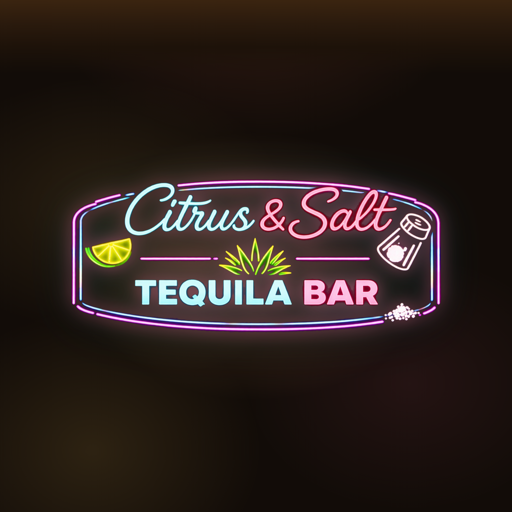
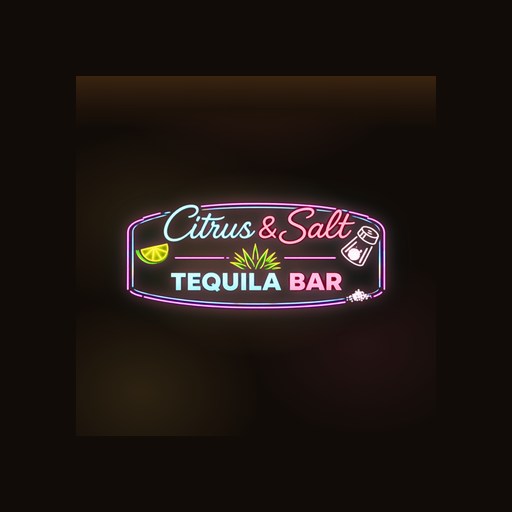
SEO + structural cleanup from Opus audit
- maskable-512.png regenerated with #120C08 safe-zone padding
  (was byte-identical to icon-512.png — would clip on Android)
- index.html: Twitter cards (summary_large_image) + hasMap + logo
  added to BarOrPub JSON-LD
- faq/index.html: Twitter cards added
- 404.html: canonical fixed (was /404 which doesn't 200) + Twitter
  cards added

diff --git a/404.html b/404.html
@@ -11,7 +11,7 @@
 <meta name="robots" content="noindex, follow" />
 <meta name="referrer" content="strict-origin-when-cross-origin" />
 
-<link rel="canonical" href="https://citrusandsaltbryan.com/404" />
+<link rel="canonical" href="https://citrusandsaltbryan.com/" />
 
 <meta property="og:type" content="website" />
 <meta property="og:title" content="Page not found · Citrus &amp; Salt" />
@@ -20,6 +20,10 @@
 <meta property="og:image" content="https://citrusandsaltbryan.com/og-image.jpg" />
 <meta property="og:locale" content="en_US" />
 <meta property="og:site_name" content="Citrus &amp; Salt" />
+<meta name="twitter:card" content="summary_large_image" />
+<meta name="twitter:title" content="Page not found · Citrus &amp; Salt" />
+<meta name="twitter:description" content="The page you&rsquo;re looking for has moved or doesn&rsquo;t exist." />
+<meta name="twitter:image" content="https://citrusandsaltbryan.com/og-image.jpg" />
 
 <link rel="icon" type="image/png" sizes="32x32" href="/favicon-32.png" />
 <link rel="icon" type="image/png" sizes="16x16" href="/favicon-16.png" />

diff --git a/index.html b/index.html
@@ -31,6 +31,10 @@
 <meta property="og:image" content="https://citrusandsaltbryan.com/og-image.jpg">
 <meta property="og:locale" content="en_US">
 <meta property="og:site_name" content="Citrus &amp; Salt">
+<meta name="twitter:card" content="summary_large_image">
+<meta name="twitter:title" content="Citrus &amp; Salt: Tequila &amp; Mezcal Bar in Downtown Bryan, TX">
+<meta name="twitter:description" content="BCS's only all-agave cocktail bar. 100+ tequilas and mezcals at 121 N Main St, Historic Downtown Bryan.">
+<meta name="twitter:image" content="https://citrusandsaltbryan.com/og-image.jpg">
 
 <script type="application/ld+json">
 {
@@ -69,7 +73,9 @@
       "areaServed": [
         {"@type": "City", "name": "Bryan"},
         {"@type": "City", "name": "College Station"}
-      ]
+      ],
+      "hasMap": "https://www.google.com/maps/search/?api=1&query=Citrus+%26+Salt+121+N+Main+St+Bryan+TX+77803",
+      "logo": "https://citrusandsaltbryan.com/logo-neon.png"
     },
     {
       "@type": "Person",

diff --git a/faq/index.html b/faq/index.html
@@ -30,6 +30,10 @@
 <meta property="og:image" content="https://citrusandsaltbryan.com/og-image.jpg">
 <meta property="og:locale" content="en_US">
 <meta property="og:site_name" content="Citrus &amp; Salt">
+<meta name="twitter:card" content="summary_large_image">
+<meta name="twitter:title" content="News &amp; FAQ | Citrus &amp; Salt">
+<meta name="twitter:description" content="Downtown Bryan news, events, and common questions about Citrus and Salt.">
+<meta name="twitter:image" content="https://citrusandsaltbryan.com/og-image.jpg">
 
 <script type="application/ld+json">
 {
